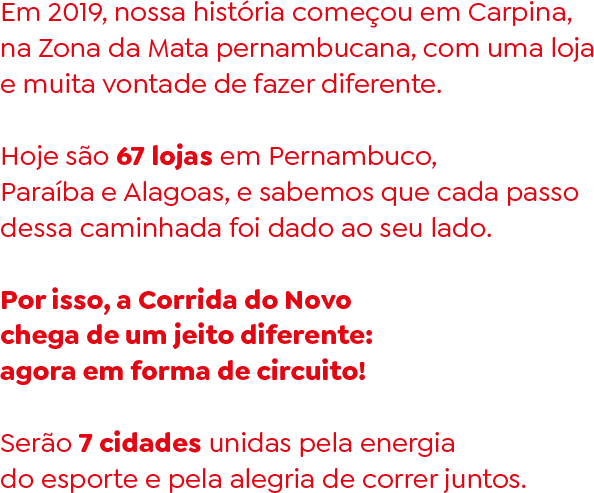
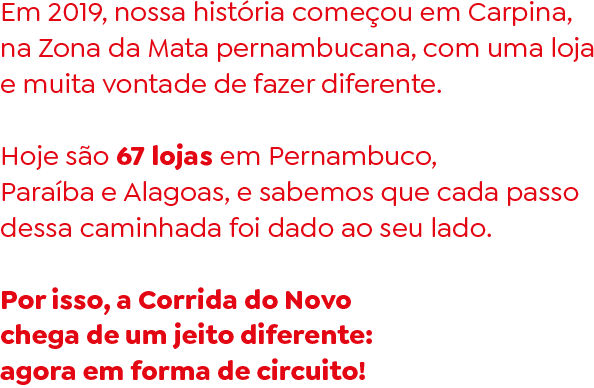
Remove trecho sobre 7 cidades da imagem da Dobra 3

diff --git a/index.html b/index.html
@@ -83,7 +83,7 @@
         <div class="story-text-img">
           <img
             src="assets/common/story-text.png"
-            alt="Em 2019, nossa história começou em Carpina, na Zona da Mata pernambucana, com uma loja e muita vontade de fazer diferente. Hoje são 67 lojas em Pernambuco, Paraíba e Alagoas, e sabemos que cada passo dessa caminhada foi dado ao seu lado. Por isso, a Corrida do Novo chega de um jeito diferente: agora em forma de circuito! Serão 7 cidades unidas pela energia do esporte e pela alegria de correr juntos."
+            alt="Em 2019, nossa história começou em Carpina, na Zona da Mata pernambucana, com uma loja e muita vontade de fazer diferente. Hoje são 67 lojas em Pernambuco, Paraíba e Alagoas, e sabemos que cada passo dessa caminhada foi dado ao seu lado. Por isso, a Corrida do Novo chega de um jeito diferente: agora em forma de circuito!"
           />
         </div>
         <div class="story-feature-col">
